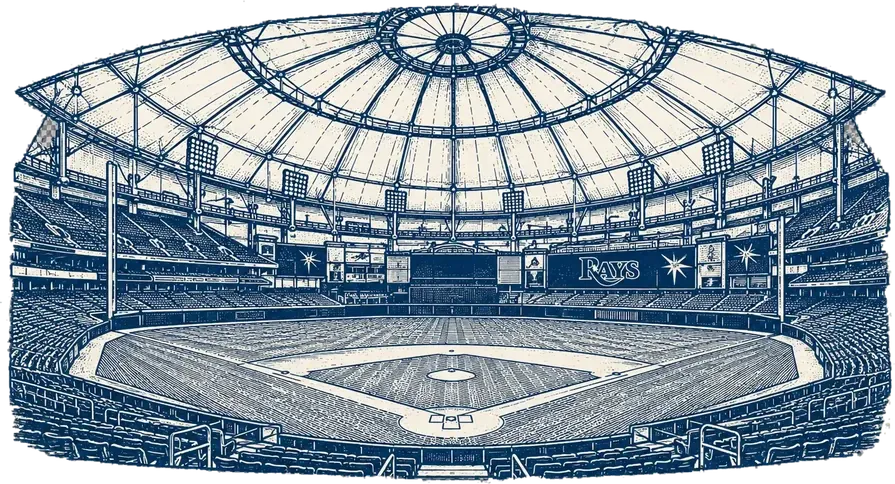
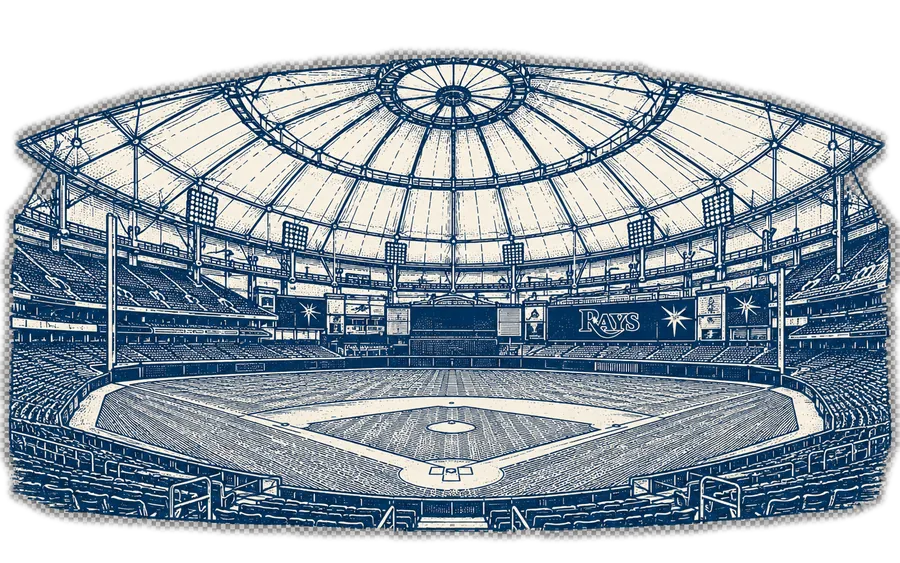
Heritage Pass: redrawn art for five parks, thirteen new parks
Gary's new engravings replace American Family Field, Fenway, Tropicana,
Wrigley and Yankee Stadium, and add Chase, Citi, Comerica, Coors, Daikin,
Dodger Stadium, Globe Life, Nationals, Oracle, Sutter Health, Target,
T-Mobile and Truist. Each is 900px WebP. Dodger, Fenway, Tropicana and
Wrigley arrived on solid halftone grounds; their skies were cut out so
the pass shows cream behind them. Per-park crop anchors keep each
landmark in the wide art slot.

Claude-Session: https://claude.ai/code/session_0143SztobnqrpiUuC3Nqf514

diff --git a/src/lib/heritage/art.js b/src/lib/heritage/art.js
@@ -5,11 +5,25 @@ import { parkKey } from '../ballpark/parkKeys.js'
 // the pass's engraved venue name. Keyed by parkKey so a sponsor rename still
 // finds its art. The pass crops each drawing to fill its slot, anchored at the
 // bottom; `position` moves that anchor for a drawing whose top must survive.
+// Anchors were picked by eye on /heritage-pass-preview (2026-10-30).
 const ART = {
   americanfamilyfield: 'American Family Field',
-  fenwaypark: { name: 'Fenway Park', position: 'center top' },
-  tropicanafield: 'Tropicana Field',
-  wrigleyfield: 'Wrigley Field',
+  chasefield: 'Chase Field',
+  citifield: 'Citi Field',
+  comericapark: { name: 'Comerica Park', position: 'center top' },
+  coorsfield: 'Coors Field',
+  daikinpark: { name: 'Daikin Park', position: 'center 70%' },
+  dodgerstadium: { name: 'Dodger Stadium', position: 'center 70%' },
+  fenwaypark: { name: 'Fenway Park', position: 'center 70%' },
+  globelifefield: 'Globe Life Field',
+  nationalspark: 'Nationals Park',
+  oraclepark: 'Oracle Park',
+  sutterhealthpark: { name: 'Sutter Health Park', position: 'center 70%' },
+  targetfield: { name: 'Target Field', position: 'center 40%' },
+  tmobilepark: { name: 'T-Mobile Park', position: 'center 40%' },
+  tropicanafield: { name: 'Tropicana Field', position: 'center 40%' },
+  truistpark: { name: 'Truist Park', position: 'center 40%' },
+  wrigleyfield: { name: 'Wrigley Field', position: 'center 70%' },
   yankeestadium: 'Yankee Stadium',
 }
 // Former names that parkKey does not pin, so older games still find their park.

diff --git a/test/heritage-pass.test.js b/test/heritage-pass.test.js
@@ -130,11 +130,15 @@ test('stadium artwork resolves by park key and every mapped file ships', () => {
   // Pre-2021 Brewers games carry the park's former name.
   assert.equal(heritageArt('Miller Park')?.src, '/heritage-art/americanfamilyfield.webp')
   assert.equal(heritageArt('Busch Stadium'), null)
-  // Fenway's light towers are the drawing's top edge; the crop keeps them.
-  assert.equal(heritageArt('Fenway Park').position, 'center top')
+  // Comerica's sign is the drawing's top edge; the crop keeps it.
+  assert.equal(heritageArt('Comerica Park').position, 'center top')
   assert.equal(heritageArt('American Family Field').position, undefined)
   assert.equal(heritageArt(''), null)
-  for (const venue of ['Fenway Park', 'Tropicana Field', 'Wrigley Field', 'Yankee Stadium', 'American Family Field']) {
+  // Houston's park keeps its art under its old sponsor's games.
+  assert.equal(heritageArt('Minute Maid Park', 2392)?.src, '/heritage-art/daikinpark.webp')
+  for (const venue of ['Fenway Park', 'Tropicana Field', 'Wrigley Field', 'Yankee Stadium', 'American Family Field',
+    'Chase Field', 'Citi Field', 'Comerica Park', 'Coors Field', 'Daikin Park', 'Dodger Stadium', 'Globe Life Field',
+    'Nationals Park', 'Oracle Park', 'Sutter Health Park', 'Target Field', 'T-Mobile Park', 'Truist Park']) {
     assert.ok(existsSync(new URL(`../public${heritageArt(venue).src}`, import.meta.url)), venue)
   }
 })

diff --git a/docs/heritage-pass.md b/docs/heritage-pass.md
@@ -59,13 +59,20 @@ it does not mint a second collectible or replace the circular stamp.
 The component accepts an optional `artwork={{ src, alt }}`; it never resolves a
 venue itself. Callers (the box score and `HeritagePassPages`) pass
 `heritageArt(game.venue)` from `src/lib/heritage/art.js`, which maps a `parkKey`
-to `public/heritage-art/{parkKey}.webp`. Five parks have art (Gary, 2026-10-29):
-American Family Field, Fenway Park, Tropicana Field, Wrigley Field, Yankee
-Stadium. Each is a navy-on-cream engraving, 900px wide, transparent outside the
-drawing. It bleeds to the frame's inner rule and is cropped there. Every game at those parks gets its art, whatever the year; `FORMER`
+to `public/heritage-art/{parkKey}.webp`. Eighteen parks have art (Gary, 2026-10-29;
+redrawn and extended 2026-10-30): American Family Field, Chase Field, Citi Field,
+Comerica Park, Coors Field, Daikin Park, Dodger Stadium, Fenway Park, Globe Life
+Field, Nationals Park, Oracle Park, Sutter Health Park, Target Field, T-Mobile Park,
+Tropicana Field, Truist Park, Wrigley Field, Yankee Stadium. Each is a navy engraving
+exported from Gary's PNG at 900px wide, WebP quality 80, transparent outside the
+drawing. Dodger Stadium, Fenway, Tropicana and Wrigley arrived on solid halftone
+grounds; their skies were cut out by an edge flood fill (blur, fill from the frame,
+close small gaps, feather), so a redraw should arrive transparent instead. The slot
+is wider than most drawings, so `ART` sets a per-park `position` anchor where the
+default bottom crop loses the park's landmark. It bleeds to the frame's inner rule and is cropped there. Every game at those parks gets its art, whatever the year; `FORMER`
 maps Miller Park (before 2021) to American Family Field. The drawings keep their
 sponsor and club marks by Gary's choice (2026-10-29). Any other park, and a file that fails to load, leaves the engraved venue
-name. Add a park by adding its webp and one line to `ART`, one ballpark at a time.
+name. Add a park by adding its webp and one line to `ART`, then check its crop on `/heritage-pass-preview`.
 
 ## Where it renders
 

diff --git a/src/components/heritage/CLAUDE.md b/src/components/heritage/CLAUDE.md
@@ -9,7 +9,7 @@ provenance: `docs/heritage-pass.md`. The circular stamp is a separate, preserved
 - Stadium artwork is caller-owned: callers pass `heritageArt(venue)` from
   `lib/heritage/art.js` (`public/heritage-art/{parkKey}.webp`). The component never
   resolves, fetches, or generates it. Absent and failed artwork keep the venue
-  typography. Add parks one at a time.
+  typography. Add a park with its webp and one `ART` line; check the crop.
 - The adapter uses `game:final` facts, not a second game model. Optional metadata
   stays absent; `gameNumber` is a doubleheader number, never a series number.
 - Tall-pass pagination is display-only. Never rewrite circular stamp placements,
